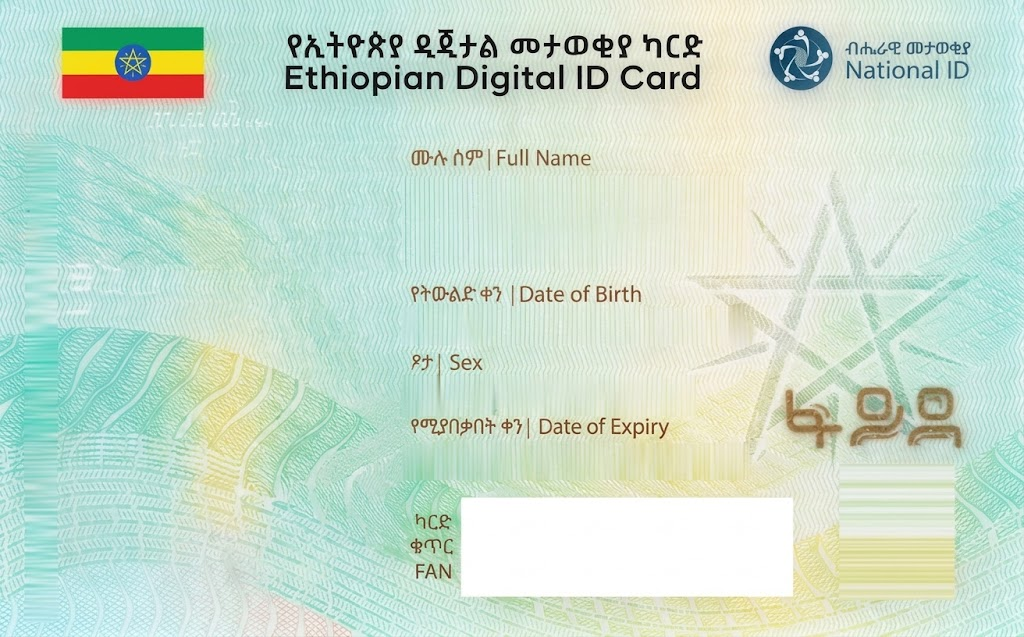
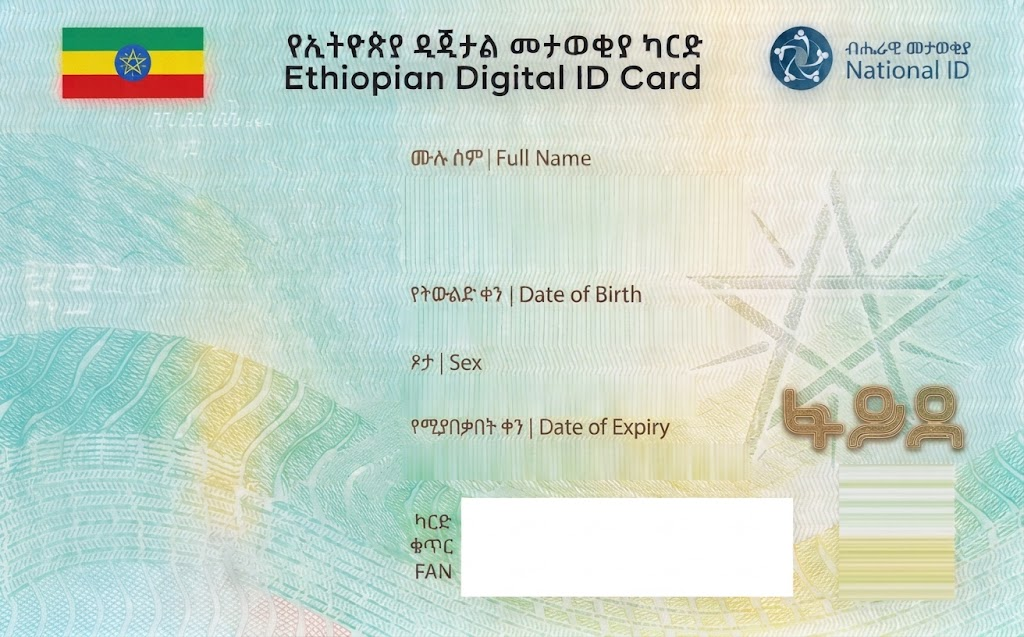
template 4 added

diff --git a/lib/telegram/card-renderer.ts b/lib/telegram/card-renderer.ts
@@ -229,7 +229,7 @@ function isolateSubjectClean(srcCanvas: any) {
   return srcCanvas;
 }
 
-export type CardTemplateId = "template1" | "template2" | "template3";
+export type CardTemplateId = "template1" | "template2" | "template3" | "template4";
 
 const TEMPLATE_CONFIG: Record<CardTemplateId, { front: string; back: string }> = {
   template1: {
@@ -244,6 +244,11 @@ const TEMPLATE_CONFIG: Record<CardTemplateId, { front: string; back: string }> =
     // front3.png has an open photo area (no opaque slot fill) so that the
     // transparent portrait produced by isolateSubjectClean shows through cleanly.
     front: "image.png",
+    back: "card-back-template.png",
+  },
+  template4: {
+
+    front: "front4.png",
     back: "card-back-template.png",
   },
 };
@@ -290,7 +295,7 @@ async function getBackTemplateImage(templateId: CardTemplateId = "template1"): P
 
 // Background prewarm to guarantee instant 0ms disk latency on any template
 export function prewarmTemplates() {
-  const ids: CardTemplateId[] = ["template1", "template2", "template3"];
+  const ids: CardTemplateId[] = ["template1", "template2", "template3", "template4"];
   for (const id of ids) {
     getFrontTemplateImage(id).catch(() => { });
     getBackTemplateImage(id).catch(() => { });
@@ -364,10 +369,10 @@ export async function renderFrontCardCanvas(
   if (data.photoUrl) {
     const rawPhotoImg = await loadServerImage(data.photoUrl);
     if (rawPhotoImg) {
-      // 1. Perform background removal for template2 (Modern Blue) and template3 (Minimal).
+      // 1. Perform background removal for template2 (Modern Blue), template3 (Minimal), and template4.
       // Classic Standard (template1) keeps the original portrait photo as completed.
       let photoSource = rawPhotoImg;
-      if (templateId === "template2" || templateId === "template3") {
+      if (templateId === "template2" || templateId === "template3" || templateId === "template4") {
         const cleanPhotoCanvas = createCanvas(rawPhotoImg.width, rawPhotoImg.height);
         const cleanCtx = cleanPhotoCanvas.getContext("2d");
         cleanCtx.imageSmoothingEnabled = true;
@@ -413,10 +418,10 @@ export async function renderFrontCardCanvas(
         pCtx.drawImage(photoDrawable, offX, offY, drawW, drawH);
 
         ctx.drawImage(pCanvas, photoX, photoY);
-      } else if (templateId === "template3") {
-        // Minimal: Classic Standard card layout with Modern Blue transparent subject rendering.
+      } else if (templateId === "template3" || templateId === "template4") {
+        // Minimal / Template 4: Classic Standard card layout with Modern Blue transparent subject rendering.
         // Uses an intermediate canvas (same pipeline as template2) so transparent pixels from
-        // isolateSubjectClean reveal front3.png behind them instead of compositing onto an
+        // isolateSubjectClean reveal the template front behind them instead of compositing onto an
         // opaque card-slot fill.
         const targetW = 302;
         const targetH = 430;
@@ -449,7 +454,7 @@ export async function renderFrontCardCanvas(
   const expiryGregFormatted = formatGregorianDate(data.dateOfExpiryGreg);
   const textColor = "#000000";
 
-  if (templateId === "template1" || templateId === "template3") {
+  if (templateId === "template1" || templateId === "template3" || templateId === "template4") {
     ctx.fillStyle = "#020617";
     ctx.textAlign = "left";
     ctx.font = "bold 26px NotoSansEthiopic, Arial, sans-serif";
@@ -535,7 +540,7 @@ export async function renderFrontCardCanvas(
 
   // 4. Ghost photo - clean, sharp transparent portrait proportioned to match Reference 2
   if (photoDrawable) {
-    if (templateId === "template1" || templateId === "template3") {
+    if (templateId === "template1" || templateId === "template3" || templateId === "template4") {
       ctx.save();
       ctx.globalAlpha = 0.75;
       drawRoundedRect(ctx, 830, 460, 113, 134, 8);
@@ -625,7 +630,7 @@ export async function renderBackCardCanvas(
   const qrSource = data.qrCodeUrl || "/assets/target-qr.png";
   const qrImg = await loadServerImage(qrSource);
 
-  if (templateId === "template1" || templateId === "template3") {
+  if (templateId === "template1" || templateId === "template3" || templateId === "template4") {
     ctx.fillStyle = "#020617";
     ctx.textAlign = "left";
     ctx.font = "bold 25px Arial, sans-serif";

diff --git a/lib/telegram/bot-service.ts b/lib/telegram/bot-service.ts
@@ -595,7 +595,7 @@ export async function handleTelegramUpdate(update: any) {
 
     if (cbData && cbData.startsWith("set_template:")) {
       const chosen = cbData.split(":")[1] as CardTemplateId;
-      if (["template1", "template2", "template3"].includes(chosen)) {
+      if (["template1", "template2", "template3", "template4"].includes(chosen)) {
         await updateCustomerCardTemplate(cbUserId, chosen).catch(() => null);
         updateSession(cbUserId, { cardTemplate: chosen });
         await answerTelegramCallbackQuery(cbId, `Selected ${chosen.toUpperCase()}`);
@@ -604,6 +604,7 @@ export async function handleTelegramUpdate(update: any) {
           template1: "Template 1 (Classic Standard)",
           template2: "Template 2 (Modern Blue Header)",
           template3: "Template 3 (Minimal)",
+          template4: "Template 4 (Custom Front 4)",
         };
 
         if (cbChatId) {
@@ -712,6 +713,7 @@ export async function handleTelegramUpdate(update: any) {
       template1: "Template 1 (Classic Standard)",
       template2: "Template 2 (Modern Blue Header)",
       template3: "Template 3 (Minimal)",
+      template4: "Template 4 (Custom Front 4)",
     };
 
     const templateMarkup = {
@@ -732,6 +734,12 @@ export async function handleTelegramUpdate(update: any) {
           {
             text: `${currentTemplate === "template3" ? "✅ " : ""}3. Minimal`,
             callback_data: "set_template:template3",
+          },
+        ],
+        [
+          {
+            text: `${currentTemplate === "template4" ? "✅ " : ""}4. Template 4`,
+            callback_data: "set_template:template4",
           },
         ],
       ],

diff --git a/lib/models/customer.ts b/lib/models/customer.ts
@@ -7,7 +7,7 @@ export interface CustomerDocument {
   faydaApiKey?: string;
   balance: number; // Admin-managed verification quota
   usedCount?: number; // Total verifications consumed
-  cardTemplate?: "template1" | "template2" | "template3";
+  cardTemplate?: "template1" | "template2" | "template3" | "template4";
   createdAt: Date;
   updatedAt: Date;
 }
@@ -118,7 +118,7 @@ export async function createCustomer(
     telegramUsername?: string;
     balance: number;
     faydaApiKey?: string;
-    cardTemplate?: "template1" | "template2" | "template3";
+    cardTemplate?: "template1" | "template2" | "template3" | "template4";
   }
 ): Promise<CustomerDocument> {
   const col = await getCustomersCollection();
@@ -144,7 +144,7 @@ export async function updateCustomer(
     telegramUsername?: string;
     balance?: number;
     faydaApiKey?: string;
-    cardTemplate?: "template1" | "template2" | "template3";
+    cardTemplate?: "template1" | "template2" | "template3" | "template4";
   }
 ): Promise<CustomerDocument | null> {
   customerCache.delete(telegramUserId);
@@ -313,7 +313,7 @@ export async function deleteCustomer(
 
 export async function updateCustomerCardTemplate(
   telegramUserId: number,
-  cardTemplate: "template1" | "template2" | "template3"
+  cardTemplate: "template1" | "template2" | "template3" | "template4"
 ): Promise<CustomerDocument | null> {
   customerCache.delete(telegramUserId);
   const col = await getCustomersCollection();

diff --git a/lib/telegram/session-store.ts b/lib/telegram/session-store.ts
@@ -23,7 +23,7 @@ export interface UserSession {
   requestCount: number;
   lastRequestTime: number;
   activeRequestId?: string;
-  cardTemplate?: "template1" | "template2" | "template3";
+  cardTemplate?: "template1" | "template2" | "template3" | "template4";
 }
 
 // In-memory mutex locks per user to prevent concurrent race conditions
